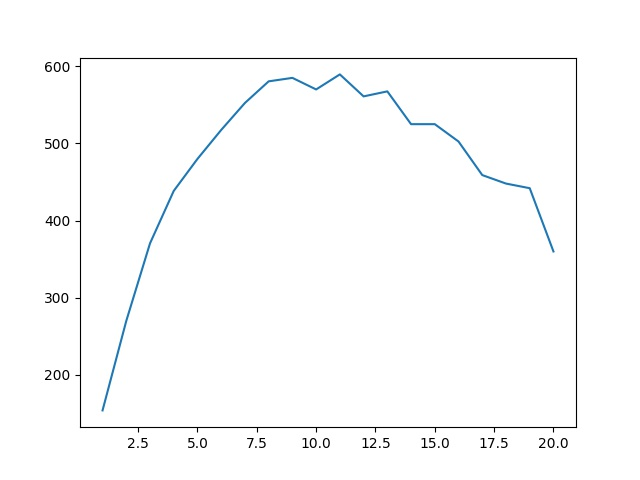
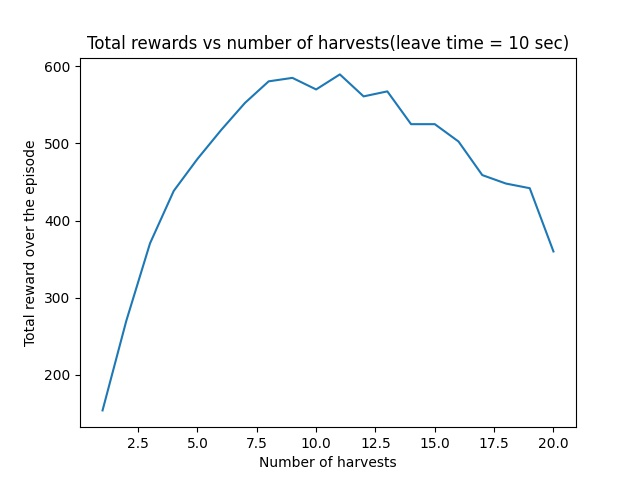
analytical

diff --git a/test.py b/test.py
@@ -3,14 +3,21 @@ import numpy as np
 from matplotlib import pyplot as plt
 # print(np.arange(2,15))
 # print(random.choice((np.arange(2,14))))
-# h = [154, 270, 370.5, 438.5, 480, 517.5, 552.5, 580.5, 585, 570, 589.5, 561, 567.5, 525, 525, 502.5, 459, 448, 442, 360]
-# x = np.arange(1,21)
-# plt.plot(x,h)
-# plt.savefig("lt10.jpg")
+h = [154, 270, 370.5, 438.5, 480, 517.5, 552.5, 580.5, 585, 570, 589.5, 561, 567.5, 525, 525, 502.5, 459, 448, 442, 360]
+x = np.arange(1,21)
+plt.plot(x,h)
+plt.xlabel("Number of harvests")
+plt.ylabel("Total reward over the episode")
+plt.title("Total rewards vs number of harvests(leave time = 10 sec)")
+plt.savefig("lt10.jpg")
+plt.close()
 
-# h2 = [420, 648, 780, 863.5, 900, 931.5, 924, 924, 900, 889.5, 855, 816, 780, 748.5, 717, 675, 612, 589.5, 522.5, 497.5]
-# plt.plot(x,h2)
-# plt.savefig("lt3.jpg")
-Q = [1,1,1,2,2,2,2,3,3,3,4,4,4,4,4]
-max_indices=np.where(Q==np.amax(Q))
-print(max_indices[0])
+h2 = [420, 648, 780, 863.5, 900, 931.5, 924, 924, 900, 889.5, 855, 816, 780, 748.5, 717, 675, 612, 589.5, 522.5, 497.5]
+plt.plot(x,h2)
+plt.xlabel("Number of harvests")
+plt.ylabel("Total reward over the episode")
+plt.title("Total rewards vs number of harvests(leave time = 3 sec)")
+plt.savefig("lt3.jpg")
+# Q = [1,1,1,2,2,2,2,3,3,3,4,4,4,4,4]
+# max_indices=np.where(Q==np.amax(Q))
+# print(max_indices[0])
